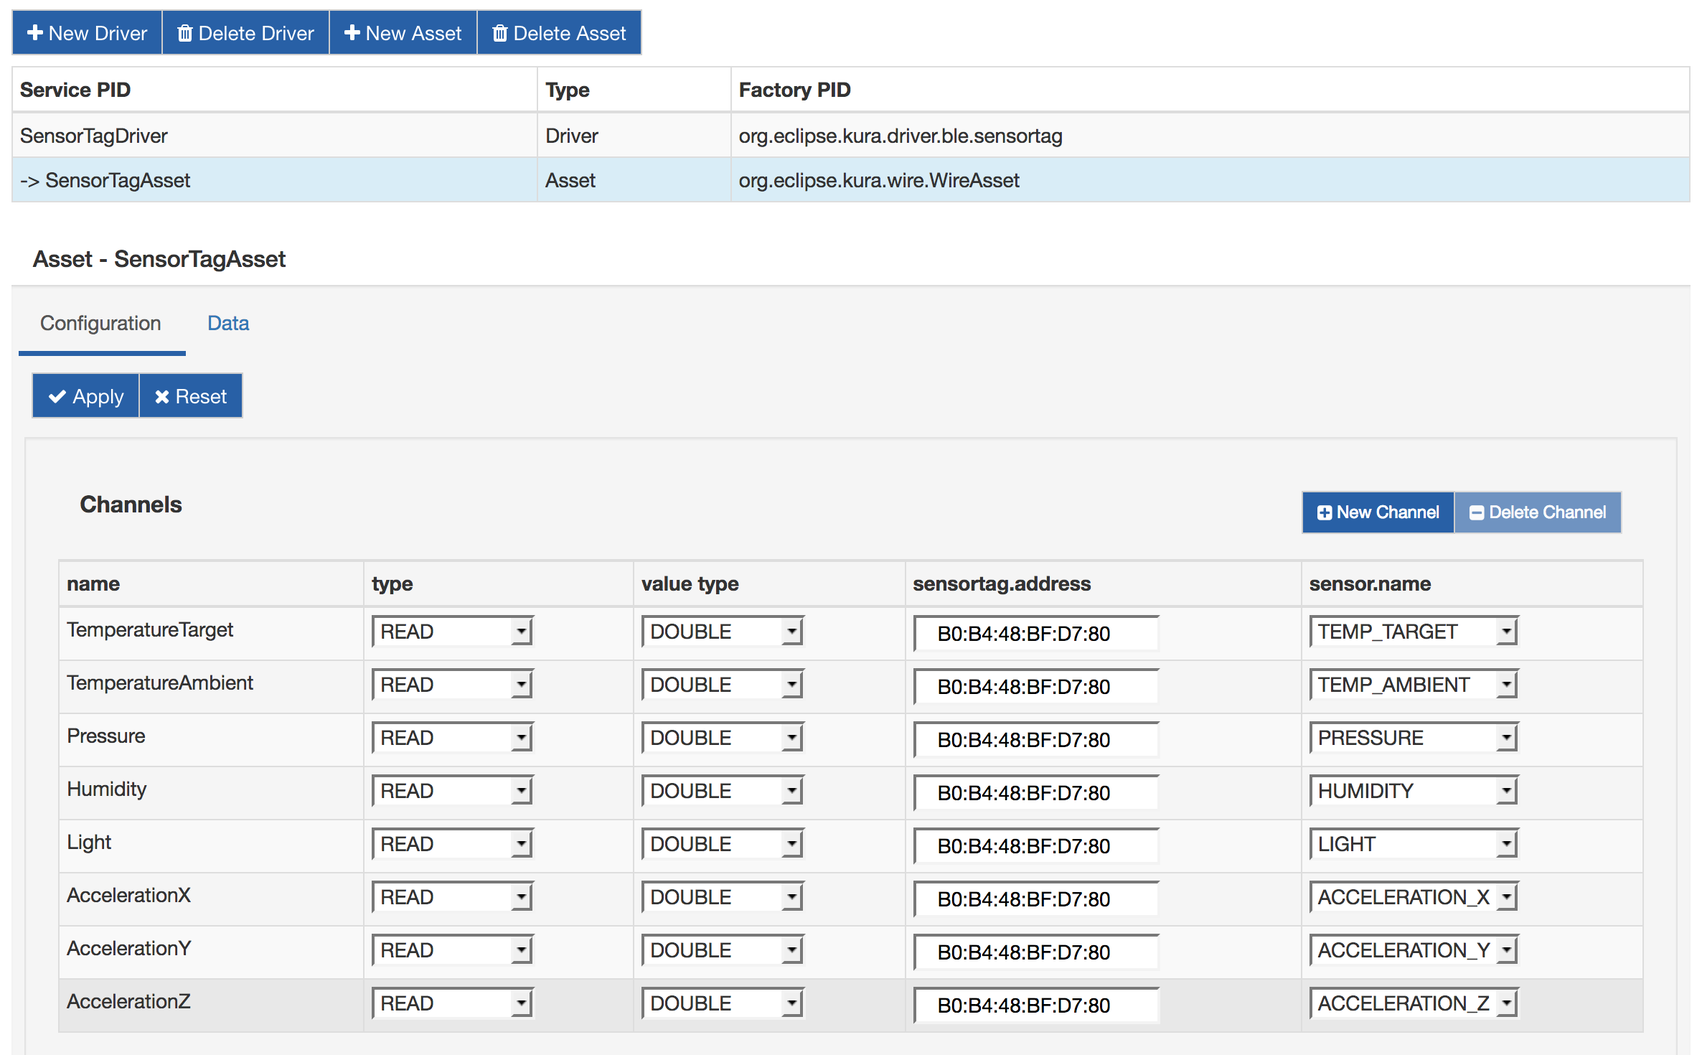
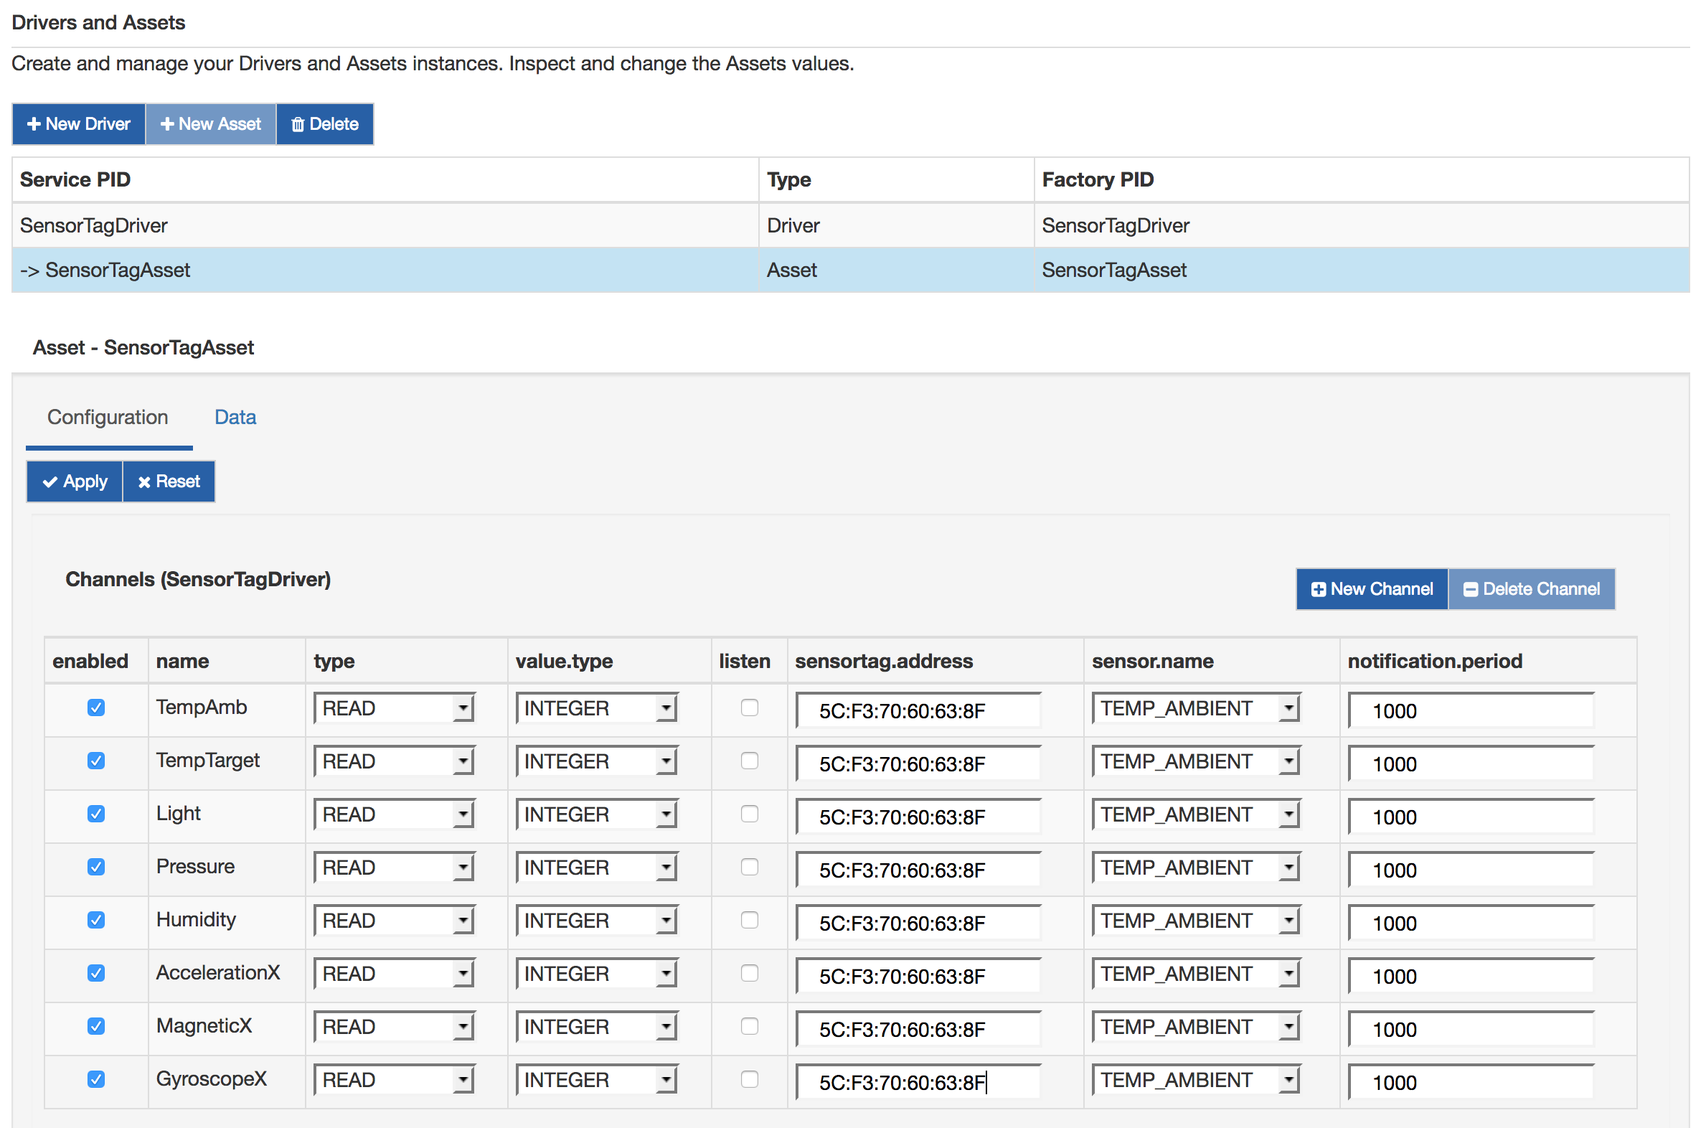
GPIO Driver, SensorTag Driver and Assets

Changed region(s): [[0.0312, 0.4592, 0.9671, 0.9796], [0.0, 0.0, 0.9983, 0.5204]]

diff --git a/_posts/wires/2018-04-09-1-kura-wires-script-filter.md b/_posts/wires/2018-04-09-1-kura-wires-script-filter.md
@@ -1,0 +1,105 @@
+---
+layout: page
+title:  "Script Filter Wire component"
+categories: [wires]
+---
+
+## Features
+
+The Script Filter component provides scripting functionalities in Kura Wires using the Nashorn Javascript engine:
+
+* The script execution is triggered when a wire envelope is received by the filter component.
+* It is possible to access to the received envelope and inspect the wire records contained in it form the script.
+* The script can optionally emit a wire envelope containing one or more wire records for each wire envelope received.
+* The script context is persisted across multiple executions, allowing to perform stateful computations like running a counter, performing time averages etc.
+* A slf4j Logger is available to the script for debug purposes.
+* The script context is restricted in order to allow only Wires related processing. Any attempt to load additional Java classes will fail.
+
+## Usage
+
+The following global variables are available to the script:
+
+* [input](#received-envelope): An object that represents the received wire envelope.
+* [output](#creating-and-emitting-wire-records): An object that allows to emit wire records.
+* [logger](#logging): A slf4j logger
+
+The following utility functions are available:
+
+* [newWireRecord(void) -> WireRecordWrapper](#utility-functions)
+* [newByteArray(void) -> byte\[\]](#utility-functions)
+* [newBooleanValue(boolean) -> TypedValue](#utility-functions)
+* [newByteArrayValue(byte\[\]) -> TypedValue](#utility-functions)
+* [newDoubleValue(number) -> TypedValue](#utility-functions)
+* [newFloatValue(number) -> TypedValue](#utility-functions)
+* [newIntegerValue(number) -> TypedValue](#utility-functions)
+* [newLongValue(number) -> TypedValue](#utility-functions)
+* [newStringValue(object) -> TypedValue](#utility-functions)
+
+The following global constants expose the `org.eclipse.kura.type.DataType` enum variants:
+
+* BOOLEAN
+* BYTE_ARRAY
+* DOUBLE
+* FLOAT
+* INTEGER
+* LONG
+* STRING
+
+### Received envelope
+
+The received envelope is represented by the **input** global variable and it has the following properties:
+
+* **emitterPid**: The emitter pid of the received envelope as a String.
+* **records**: An immutable array that represents the Wire Records contained in the Wire Envelope.
+
+Each element of the **records** array is an immutable object that represents a received wire record. Wire record properties are directly mapped to Javascript object properties, and are instances of the `org.eclipse.kura.type.TypedValue` class. Each Wire Record property has the following methods available:
+
+* `getType(void) -> DataType`: Returns the type of the value, as a DataType enum variant. Can be matched against the data type constants described above.
+* `getValue(void) -> Object`: Returns the actual value.
+
+The javascript objects referred as WireRecords in this guide are not instances of the `org.eclipse.kura.wire.WireRecord` class, but are wrappers that map WireRecord properties into javascript properties.
+The following code is a simple example script that show how to use the filter:
+
+```javascript
+// get the first record from the envelope
+var record = input.records[0]
+// let's assume it contains the LED boolean property and the TEMPERATURE double property
+record.LED1.getType() === BOOLEAN // evaluates to true
+if (record.LED1.getValue()) {
+// LED1 is on
+}
+record.LED1.getType() === DOUBLE // evaluates to true
+if (record.TEMPERATURE.getValue() > 50) {
+// temperature is high, do something
+}
+```
+
+### Creating and emitting wire records
+
+New mutable Wire Record instances can be created using the `newWireRecord(void) -> WireRecordWrapper` function.
+
+The properties of a mutable WireRecord can be modified by setting Javascript object properties.
+
+The properties of a WireRecord object must be instances of the TypedValue
+ class created using the `new<type>Value()` family of functions. Setting different kind of objects as properties of a WireRecord will result in an exception.
+
+The **output** global variable is an object that can be used for emitting WireRecords.
+This object contains a list of WireRecords that will be emitted when the script execution finishes, if no exceptions are thrown.
+
+New records can be added to the list using the `add(WireRecordWrapper)` function.
+It is also possible to emit records contained in the received WireEnvelope.
+
+The script filter will emit a wire envelope only if the WireRecord list is not empty when the script execution completes. The following code is an example about how to emit a value:
+
+```javascript
+// create a new record
+var record = newWireRecord()
+
+// set some properties on it
+record.LED1 = newBooleanValue(true)
+record.foo = newStringValue('bar')
+record['myprop'] = newDoubleValue(123.456)
+
+// add the wire record to the output envelope
+output.add(record)
+```

diff --git a/_posts/wires/2018-04-09-kura-wires-gpio.md b/_posts/wires/2018-04-09-kura-wires-gpio.md
@@ -1,0 +1,79 @@
+---
+layout: page
+title:  "GPIO driver in Kura Wires"
+categories: [wires]
+---
+
+In this section a simple but effective example about the GPIO Driver on Wires will be presented. This example will implement a Wire graph that toggles a digital GPIO. A listener will be attached to an input GPIO externally connected to the first one.
+
+Setup a RaspberryPi as shown in [GPIO Driver](../devices/1-gpio-driver.html#drive-a-led-using-the-gpio-driver) section. Add a cable from the LED contact near the red cable to pin 37 (gpio 26) on the RaspberryPi.
+
+## Configure Kura Wires GPIO Driver Application
+
+1. Install the GPIO Driver from the [Eclipse Kura Marketplace](https://marketplace.eclipse.org/content/???)
+2. On the Kura web interface, instantiate a GPIO Driver:
+  * Under "System", select "Drivers and Assets" and click on the "New Driver" button.
+  * Select "org.eclipse.kura.driver.gpio" as "Driver Factory", type a name in to "Driver Name" and click "Apply": a new driver will be instantiated and shown up under the "Drivers and Assets" tab.
+3. From the "Drivers and Assets" tab, add a new asset binded to the GPIO driver:
+  * Click on the "New Asset" button and fill the form with the "Asset Name" and selecting the driver created in step 2. as "Driver Name". Click "Apply" and a new asset will be listed under the GPIO driver.
+  * Click on the new asset and configure it, adding only one channel called **LED** as shown in the following picture:
+
+  ![gpio_asset_config]({{ site.baseurl }}/assets/images/wires/GPIOAssetLED.png)
+
+  * Click "Apply".
+
+{:start="4"}
+4. As in point 3., create a new asset as shown below:
+
+  ![gpio_asset_config_feedback]({{ site.baseurl }}/assets/images/wires/GPIOAssetLEDFeedback.png)
+
+  * Click "Apply".
+
+{:start="5"}
+5. Click on "Wires" under "System".
+6. Add a new "Timer" component and configure the interval at which the LED will be toggled.
+7. Add a new "Script Filter" (it can be downloaded from the [Eclipse Marketplace](https://marketplace.eclipse.org/content/wires-script-filter-kura)) and configure it with the following script:
+
+```javascript
+// create a persistent counter
+counter = typeof(counter) === 'undefined' ? 0 : counter
+counter++
+
+// emit the counter value in a different WireRecord
+var counterRecord = newWireRecord()
+counterRecord.LED = newBooleanValue(counter%2==0)
+output.add(counterRecord)
+```
+
+{:start="8"}
+8. Add the "Asset" created at point 3 and connect the "Timer" to the "Filter" and the latter to the "Asset".
+9. Add the "Asset" created at point 4.
+10. Add "Logger" component and set **log.verbosity** to "VERBOSE".
+11. Connect the latter "Asset" to the "Logger". The resulting Wire Graph should be as below:
+
+    ![gpio_wire_graph]({{ site.baseurl }}/assets/images/wires/GPIOWireGraphKura.png)
+
+{:start="12"}
+12. Click on "Apply". After a while, the led on the breadboard should start to blink at a rate defined by the "Timer" as shown below:
+
+    ![gpio_led_blinking]({{ site.baseurl }}/assets/images/wires/GPIOLedBlinking.gif)
+
+Moreover, the kura.log file should show a long sequencce of messages reporting that the value from the input gpio is changed:
+
+```
+2018-04-09 13:08:42,990 [Thread-3289] INFO  o.e.k.i.w.l.Logger - Received WireEnvelope from org.eclipse.kura.wire.WireAsset-1523276074484-23
+2018-04-09 13:08:42,991 [Thread-3289] INFO  o.e.k.i.w.l.Logger - Record List content: 
+2018-04-09 13:08:42,992 [Thread-3289] INFO  o.e.k.i.w.l.Logger -   Record content: 
+2018-04-09 13:08:42,993 [Thread-3289] INFO  o.e.k.i.w.l.Logger -     LED_Feedback : false
+2018-04-09 13:08:42,993 [Thread-3289] INFO  o.e.k.i.w.l.Logger -     assetName : GPIOAssetFeedback
+2018-04-09 13:08:42,994 [Thread-3289] INFO  o.e.k.i.w.l.Logger -     LED_Feedback_timestamp : 1523279322990
+2018-04-09 13:08:42,994 [Thread-3289] INFO  o.e.k.i.w.l.Logger - 
+2018-04-09 13:08:44,988 [Thread-3291] INFO  o.e.k.i.w.l.Logger - Received WireEnvelope from org.eclipse.kura.wire.WireAsset-1523276074484-23
+2018-04-09 13:08:44,989 [Thread-3291] INFO  o.e.k.i.w.l.Logger - Record List content: 
+2018-04-09 13:08:44,989 [Thread-3291] INFO  o.e.k.i.w.l.Logger -   Record content: 
+2018-04-09 13:08:44,989 [Thread-3291] INFO  o.e.k.i.w.l.Logger -     LED_Feedback : true
+2018-04-09 13:08:44,989 [Thread-3291] INFO  o.e.k.i.w.l.Logger -     assetName : GPIOAssetFeedback
+2018-04-09 13:08:44,989 [Thread-3291] INFO  o.e.k.i.w.l.Logger -     LED_Feedback_timestamp : 1523279324988
+```
+
+

diff --git a/_posts/devices/2018-04-09-1-gpio-driver.md b/_posts/devices/2018-04-09-1-gpio-driver.md
@@ -1,0 +1,53 @@
+---
+layout: page
+title:  "GPIO Driver"
+categories: [devices]
+---
+
+The GPIO Driver manages the General Purpose IOs on a gateway using the Driver model. Based on the GPIO Service, the driver can be used in to the Wires framework, the Asset model or directly using the Driver itself.
+
+## Features
+
+The GPIO Driver includes the following features:
+
+- support for digital input and output
+- support for unsolicited inputs
+- the trigger event can be configured directly through the Driver
+
+## Installation
+
+As the others Drivers supported by Eclipse Kura, it is distributed as a deployment package on [Eclipse Marketplace](https://marketplace.eclipse.org/content/esf-gpio-driver). It can be installed following the instructions provided [here](application-management#section-eclipse-kura-marketplace).
+
+## Instance creation
+
+A new GPIO Driver instance can be created either by clicking the **New Driver** button in the dedicated **Drivers and Assets** Web UI section or by clicking on the **+** button under **Services**. In both cases, the `org.eclipse.kura.driver.gpio` factory must be selected and a unique name must be provided for the new instance. 
+Once instantiated, the GPIO Driver is ready to use and no configuration is needed.
+
+## Channel configuration
+
+The GPIO Driver channel can be configured with the following parameters:
+
+- **enabled**: it allows to enable/disable the channel. If it isn't selected the channel will be ignored.
+- **name**: the channel name.
+- **type**: the channel type, (`READ`, `WRITE`, or `READ_WRITE`).
+- **value.type**: the Java type of the channel value. The value read by the Driver will be converted to the **value.type**. Conversely, in write operations the Driver will accept value of this kind.
+- **listen**: when selected, a listener will be attached to this channel. Any event on the channel will be reported using a callback and the value will be emitted.
+- **resource.name**: the name of the GPIO resource as reported by the GPIO Service. The `#select resource` selection has no effect on the channel.
+- **resource.direction**: the direction of the GPIO. Possible values are `INPUT`and `OUTPUT`. The `#select direction` selection has no effect on the channel.
+- **resource.trigger**: the type of event that triggers the listener, if selected. Possible values are:
+
+  - `NONE`: no event will trigger the listener.
+  - `RISING_EDGE`, `FALLING_EDGE`, `BOTH_EDGES`: the listeners will be triggered respectively by a low-high transition, a high-low transition or both.
+  - `HIGH_LEVEL`,`LOW_LEVEL`, `BOTH_LEVELS`: the listeners will be triggered respectively by the detection of a high, low or both levels. Please note that these options aren't supported by all the devices.
+
+## Drive a LED using the GPIO Driver
+
+In this section a simple example on the GPIO Driver using a RaspberryPi will be presented. Before configuring the Driver, arrange a setup as shown in the following picture, using a breadboard, a led, a 120-ohm resistor and some wires. Connect the yellow wire to a ground pin on the RasperryPi connector (i.e. pin 6) and the red one to pin 40 (a.k.a. gpio21).
+
+![gpio_rpi]({{ site.baseurl }}/assets/images/drivers_and_assets/GPIOLed.jpg)
+
+From the **Drivers and Assets** tab, create a new GPIO Driver, call it **GPIODriver** and add an Asset as shown in the following picture.
+
+![gpio_driver]({{ site.baseurl }}/assets/images/drivers_and_assets/GPIOAssetConfigKura.png)
+
+The asset is configured to manage a gpio, called **LED**, as an output and drives it writing a boolean value. The **LED** channel is attached to the gpio21 on the RaspberryPi. In the **Data** tab, fill the **Value** form with true and press **Apply**: the green led will switch on. Writing a false will switch off the led.

diff --git a/_posts/devices/2017-10-11-3-1-asset-implemetation.md b/_posts/devices/2017-10-11-3-1-asset-implemetation.md
@@ -1,0 +1,47 @@
+---
+layout: page
+title:  "Asset implementation"
+categories: [devices]
+---
+
+An **Asset** is a logical representation of a field device, described by a list of **Channels**. The Asset uses a specific Driver instance to communicate with the underlying device and it models a generic device resource as a **Channel**. A register in a PLC or a GATT Characteristic in a Bluetooth device are examples of Channels. In this way, each Asset has multiple Channels for reading and writing data from/to an Industrial Device.
+
+## Channel Example
+To further describe the concept of Channel and Asset, the following table shows a set of PLC register addresses as provided in a typical PLC documentation.
+
+Name               | Entity          | Address |
+-------------------|---------------------------|
+LED1               | COILS           | 2049    |
+LED2               | COILS           | 2050    |
+LED3               | COILS           | 2051    |
+LED4 RED           | COILS           | 2052    |
+LED4 GREEN         | COILS           | 2053    |
+LED4 BLUE          | COILS           | 2054    |
+Counter 3          | INPUT REGISTERS | 515     |
+Quad Counter       | INPUT REGISTERS | 520     |
+Toggle 4           | DISCRETE INPUTS | 2052    |
+Toggle 5           | DISCRETE INPUTS | 2053    |
+Toggle 6           | DISCRETE INPUTS | 2054    |
+Reset Counter 3    | COILS           | 3075    |
+Reset Quad Counter | COILS           | 3084    |
+
+The corresponding Channels definition in the Asset is as follows:
+
+![channels]({{ site.baseurl }}/assets/images/drivers_and_assets/Devkit.png)
+
+As shown in the previous image, the Channel definition in an Asset results easily mappable to what available in a generic PLC documentation. 
+
+Once defined the Channels in an Asset, a simple Java application that leverages the Asset API can easily communicate with the Field device by simply referring the specific Channel of interest.
+
+## Channel Definition
+- **enabled**: each channel can be separately enabled using this flag.
+- **name**: unique user-friendly name for a channel
+- **type**: represents the type of operation supported. Possible values are: _READ_, _WRITE_, _READ/WRITE_
+- **value.type**: represents the data type that will be used when creating the Wire Envelope for the connected components.
+- **listen**: if supported by the associated driver, allows to receive notifications by the driver on events
+
+## Other Asset Configurations
+- **asset.desc**: a user friendly description of the asset
+- **emit.all.channels**: specifies wheter the values of all READ or READ_WRITE channels should be emitted in case of a channel event. If set to true, the values for all channels will be read and emitted, if set to false, only the value for the channel related to the event will be emitted.
+- **timestamp.mode**: if set to PER_CHANNEL, the component will emit a driver-generated timestamp per channel property. If set to SINGLE_ASSET_GENERATED, the component will emit a single timestamp per request, generated by the Asset itself before emitting the envelope. If set to SINGLE_DRIVER_GENERATED_MAX or SINGLE_DRIVER_GENERATED_MIN, the component will emit a single driver generated timestamp being respectively the max (most recent) or min (oldest) among the timestamps of the channels.
+- **emit.errors**: Specifies wheter errors should be included or not in the emitted envelope. Default is false.

diff --git a/_posts/devices/2018-04-09-sensortag-driver.md b/_posts/devices/2018-04-09-sensortag-driver.md
@@ -1,0 +1,50 @@
+---
+layout: page
+title:  "TI SensorTag Driver"
+categories: [devices]
+---
+
+Eclipse Kura provides a specific driver that can be used to interact with Texas Instruments SensorTag devices. The driver is available only for gateways that support the new Bluetooth LE APIs. 
+It can be used in to the Wires framework, the Asset model or directly using the Driver itself.
+
+{% include alerts.html message='The SensorTag driver can be used only with TI SensorTags with firmware version >1.20. If your device has an older firmware, please update it.' %}
+
+## Features
+
+The SensorTag Driver can be used to get the values from all the sensor installed on the tag (both in polling mode and notification):
+- ambient and target temperature
+- humidity
+- pressure
+- three-axis acceleration
+- three-axis magnetic field
+- three-axis orientation
+- light
+- push buttons
+
+Moreover, the following resources can be written by the driver:
+- read and green leds
+- buzzer
+
+When a notification is enabled for a specific channel (sensor), the notification period can be set.
+ 
+## Installation
+
+As the others Drivers supported by ESF, it is distributed as a deployment package on [Eclipse Marketplace](https://marketplace.eclipse.org/content/ti-sensortag-driver-eclipse-kura). It can be installed following the instructions provided [here](application-management#section-eclipse-kura-marketplace).
+
+## Instance creation
+
+A new TiSensorTag Driver instance can be created either by clicking the **New Driver** button in the dedicated **Drivers and Assets** Web UI section or by clicking on the **+** button under **Services**. In both cases, the `org.eclipse.kura.driver.ble.sensortag` factory must be selected and a unique name must be provided for the new instance. 
+Once instantiated, the SensorTag Driver has to be configured setting the Bluetooth interface name (i.e. hci0) that will be used to connect to the device.
+
+## Channel configuration
+
+The SensorTag Driver channel can be configured with the following parameters:
+
+- **enabled**: it allows to enable/disable the channel. If it isn't selected the channel will be ignored.
+- **name**: the channel name.
+- **type**: the channel type, (`READ`, `WRITE`, or `READ_WRITE`).
+- **value.type**: the Java type of the channel value. The value read by the Driver will be converted to the **value.type**. Conversely, in write operations the Driver will accept value of this kind.
+- **listen**: when selected, a listener will be attached to this channel. Any event on the channel will be reported using a callback and the value will be emitted.
+- **sensortag.address**: the address of the specific SensorTag (i.e. aa:bb:cc:dd:ee:ff)
+- **sensor.name**: the name of the sensor. It can be selected from a drop-down list
+- **notification.period**: the period in milliseconds used to receive notification for a specific sensor. The value will be ignored it the **listen** option is not checked.

diff --git a/_posts/wires/2017-05-06-kura-wires-sensortag.md b/_posts/wires/2017-05-06-kura-wires-sensortag.md
@@ -4,7 +4,7 @@ title:  "TI SensorTag driver in Kura Wires"
 categories: [wires]
 ---
 
-Eclipse Kura provides a specific driver that can be used to interact with TI SensorTag devices. The driver is available only for gateways that support the new Kura BLE APIs.
+As presented in [TI SensorTag Driver](sensortag-driver.html), Eclipse Kura provides a specific driver that can be used to interact with TI SensorTag devices. The driver is available only for gateways that support the new Kura BLE APIs.
 
 This tutorial will explain how to configure a Wire graph that connects with a SensorTag, reads sensor values and publishes data to the cloud platform.
 
@@ -12,7 +12,7 @@ This tutorial will explain how to configure a Wire graph that connects with a Se
 
 ## Configure Kura Wires TI SensorTag application
 
-1. Install the TI SensorTag driver from the [Eclipse Kura Marketplace](https://marketplace.eclipse.org/content/???)
+1. Install the TI SensorTag driver from the [Eclipse Kura Marketplace](https://marketplace.eclipse.org/content/ti-sensortag-driver-eclipse-kura)
 2. On the Kura web interface, instantiate a SensorTag Driver:
   * Under "System", select "Drivers and Assets" and click on the "New Driver" button.
   * Select "org.eclipse.kura.driver.ble.sensortag" as "Driver Factory", type a name in to "Driver Name" and click "Apply": a new driver will be instantiated and shown up under the "Drivers and Assets" tab.
@@ -41,3 +41,5 @@ This tutorial will explain how to configure a Wire graph that connects with a Se
 10. Click on "Apply" and check on the logs and cloud platform that that data are correctly published.
 
 ![sensortag_wires]({{ site.baseurl }}/assets/images/wires/SensorTagWires.png)
+
+Please note that the driver supports also unsolicited inputs, setting up a notification for the given channel. In this case, it is sufficient to check the **listen** option for the chosen channel. The Timer is not needed because the SensorTag will automatically emit the values every **notification.period** milliseconds.

diff --git a/_posts/devices/2017-10-11-3-driver-implemetation.md b/_posts/devices/2017-10-11-3-driver-implemetation.md
@@ -26,7 +26,9 @@ Drivers will be provided as add-ons available in the [Eclipse IoT Marketplace](h
 Currently, supported drivers are:
 - [Modbus](https://marketplace.eclipse.org/content/esf-modbus-driver-community-edition);
 - [OPC-UA](https://marketplace.eclipse.org/content/opc-ua-driver-kura);
-- [S7](https://marketplace.eclipse.org/content/s7-driver-kura-developer-preview).
+- [S7](https://marketplace.eclipse.org/content/s7-driver-kura-developer-preview);
+- [TiSensorTag](https://marketplace.eclipse.org/content/ti-sensortag-driver-eclipse-kura);
+- [GPIO](https://marketplace.eclipse.org/content/???);
 
 ## Driver-Specific Optimizations
 
